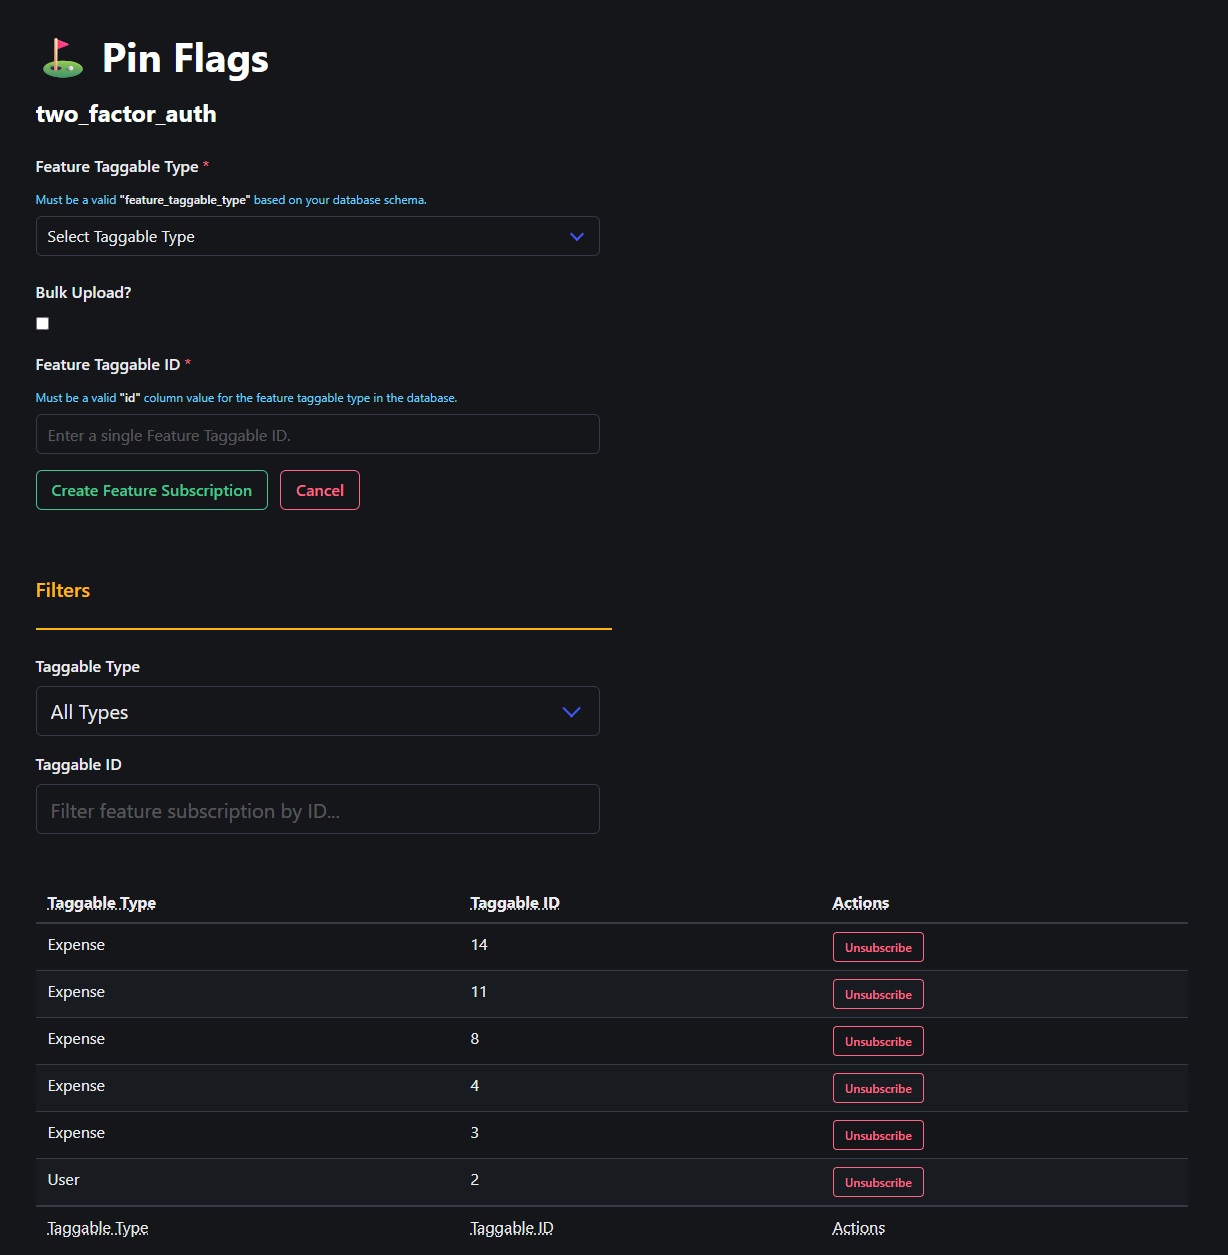
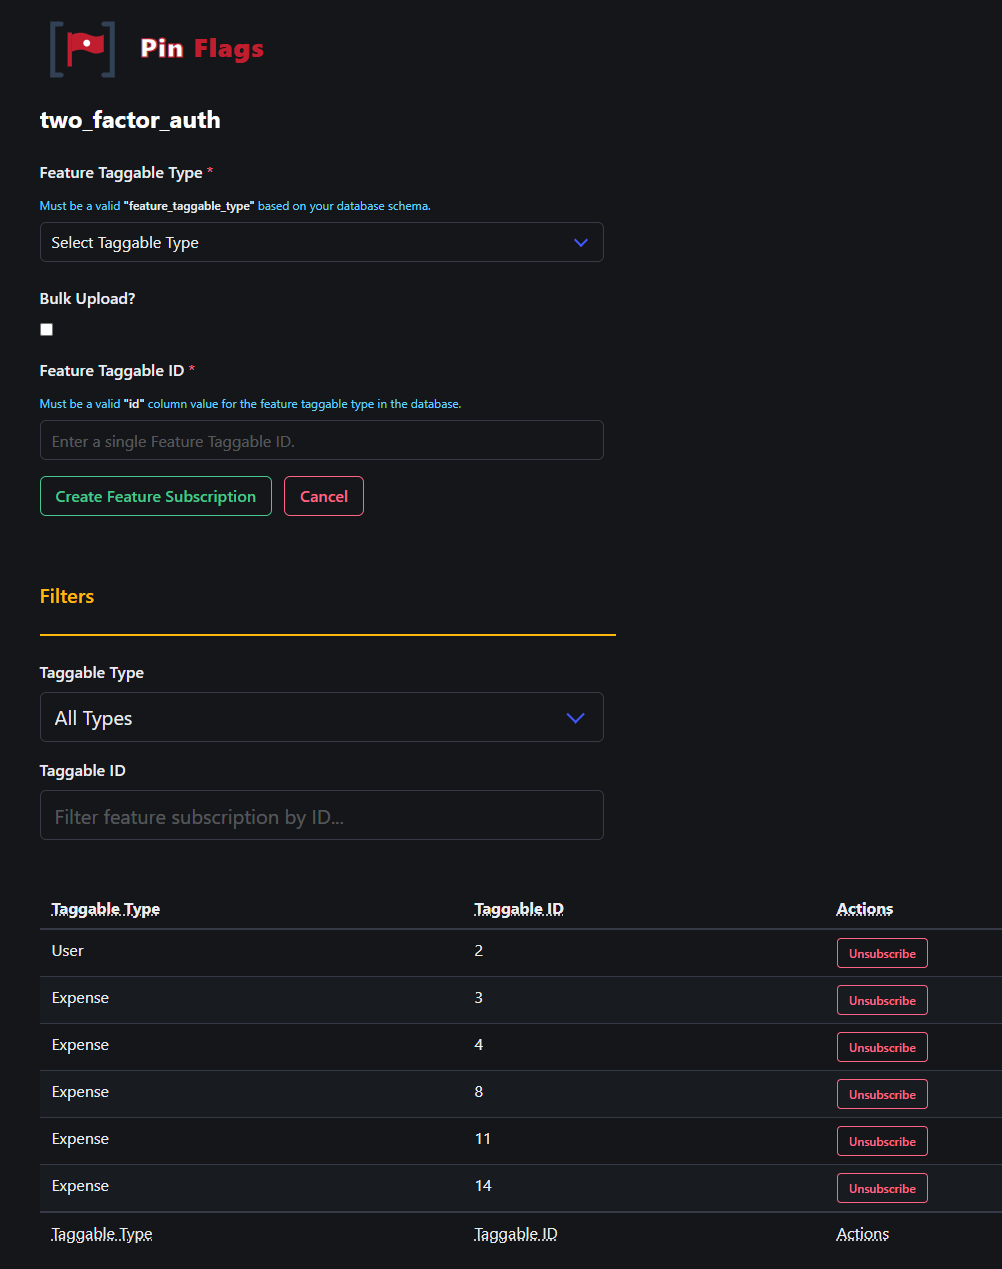
docs: Update README tagline and feature UI screenshots
- Refine README tagline to clarify entity-scoped feature flags concept
- Update pin_flags_feature_subscriptions_ui.png screenshot
- Update pin_flags_feature_tags_ui.png screenshot

diff --git a/README.md b/README.md
@@ -1,7 +1,7 @@
 <div align="center">
   <img src="docs/pin_flags_logo.svg" alt="Pin Flags" height="140">
 
-  <strong>"Pin features" to any ActiveRecord model with ease — a slightly different take on feature flags.</strong>
+  <strong>"Pin features" to any ActiveRecord model with ease; entity scoped feature flags.</strong>
 
   [![Gem Version](https://badge.fury.io/rb/pin_flags.svg)](https://badge.fury.io/rb/pin_flags)
   [![Ruby Style Guide](https://img.shields.io/badge/code_style-rubocop-brightgreen.svg)](https://github.com/rubocop/rubocop)